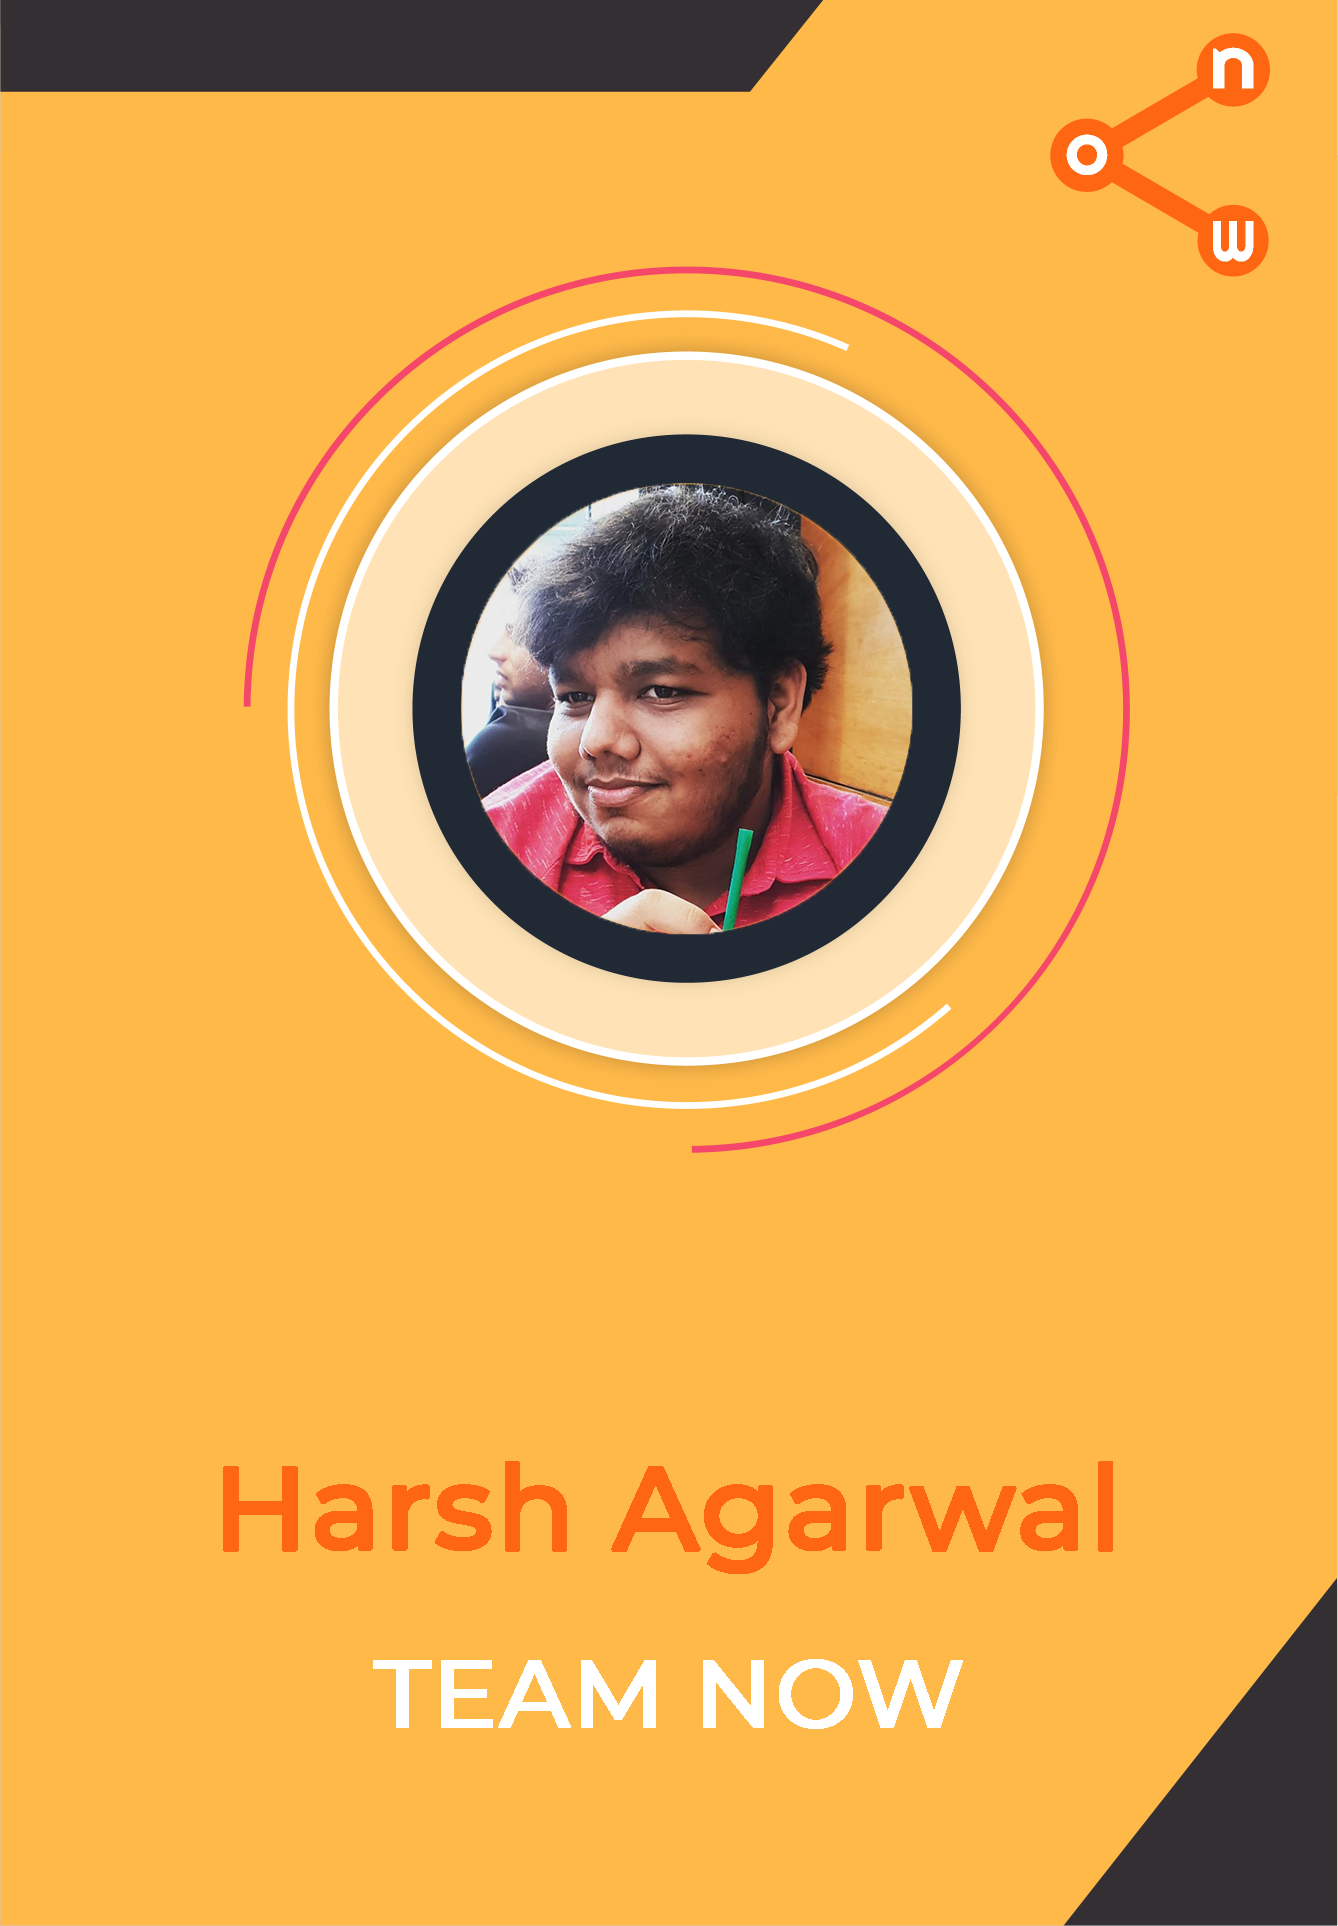
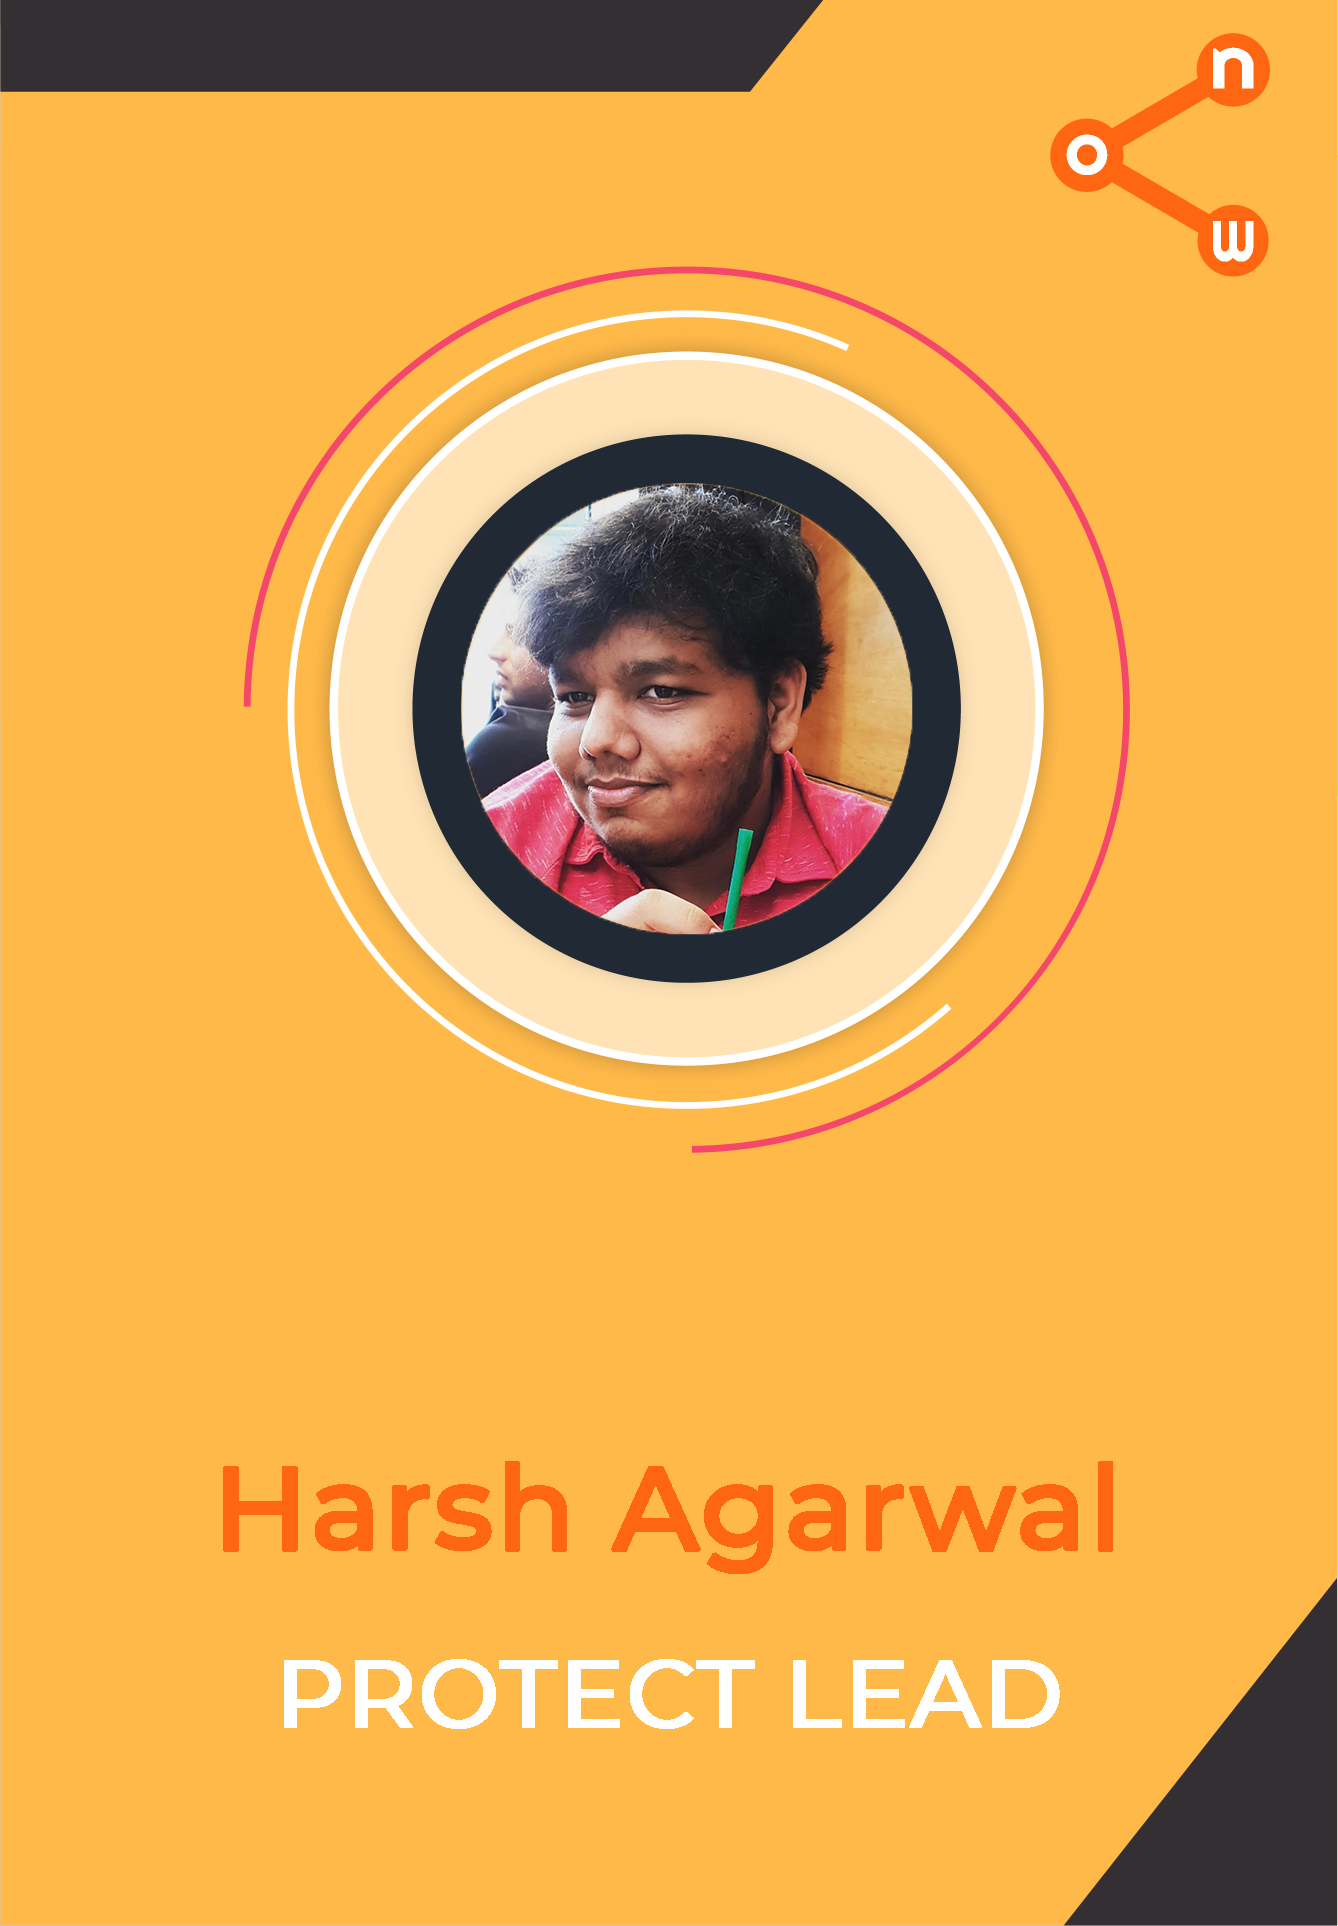
Updated core

Changed region(s): [[0.2145, 0.8411, 0.7967, 0.9034]]

diff --git a/team.html b/team.html
@@ -61,7 +61,7 @@
 
     <center>
         <div class="mdl-grid">
-            <div class="mdl-cell mdl-cell--3-col">
+            <!-- <div class="mdl-cell mdl-cell--3-col">
                 <div id="team_card" class="card">
                     <img id="photo" src="./img/team/Rohit Choudhari.png" alt="Rohit Choudhari" />
                     <div id="github_profile">
@@ -104,6 +104,42 @@
                         <a href="https://github.com/orgs/nowmozillaclub/people" target="_blank"><i class="fab fa-github"></i></a>
                     </div>
                 </div>
+            </div> -->
+
+            <div class="mdl-cell mdl-cell--3-col">
+                <div id="team_card" class="card">
+                    <img id="photo" src="./img/team/Sheona Das.png" alt="N.O.W. Club Captain" />
+                    <div id="github_profile">
+                        <a href="https://github.com/Sheona-D" target="_blank"><i class="fab fa-github"></i></a>
+                    </div>
+                </div>
+            </div>
+
+            <div class="mdl-cell mdl-cell--3-col">
+                <div id="team_card" class="card">
+                    <img id="photo" src="./img/team/Yogya Tewari.png" alt="N.O.W. Teach Lead" />
+                    <div id="github_profile">
+                        <a href="https://github.com/yogyatewari001" target="_blank"><i class="fab fa-github"></i></a>
+                    </div>
+                </div>
+            </div>
+
+            <div class="mdl-cell mdl-cell--3-col">
+                <div id="team_card" class="card">
+                    <img id="photo" src="./img/team/Urmil Shroff.png" alt="N.O.W. Build Lead" />
+                    <div id="github_profile">
+                        <a href="https://github.com/urmilshroff/" target="_blank"><i class="fab fa-github"></i></a>
+                    </div>
+                </div>
+            </div>
+
+            <div class="mdl-cell mdl-cell--3-col">
+                <div id="team_card" class="card">
+                    <img id="photo" src="./img/team/Harsh Agarwal.png" alt="N.O.W. Protect Lead" />
+                    <div id="github_profile">
+                        <a href="https://github.com/Harsh30199" target="_blank"><i class="fab fa-github"></i></a>
+                    </div>
+                </div>
             </div>
 
             <div class="mdl-cell mdl-cell--3-col">
@@ -122,15 +158,6 @@
                     <img id="photo" src="./img/team/Jaitra Dixit.png" alt="N.O.W. member" />
                     <div id="github_profile">
                         <a href="https://github.com/jaitradixit" target="_blank"><i class="fab fa-github"></i></a>
-                    </div>
-                </div>
-            </div>
-
-            <div class="mdl-cell mdl-cell--3-col">
-                <div id="team_card" class="card">
-                    <img id="photo" src="./img/team/Urmil Shroff.png" alt="N.O.W. member" />
-                    <div id="github_profile">
-                        <a href="https://github.com/urmilshroff/" target="_blank"><i class="fab fa-github"></i></a>
                     </div>
                 </div>
             </div>
@@ -283,36 +310,9 @@
 
             <div class="mdl-cell mdl-cell--3-col">
                 <div id="team_card" class="card">
-                    <img id="photo" src="./img/team/Sheona Das.png" alt="N.O.W. member" />
-                    <div id="github_profile">
-                        <a href="https://github.com/Sheona-D" target="_blank"><i class="fab fa-github"></i></a>
-                    </div>
-                </div>
-            </div>
-
-            <div class="mdl-cell mdl-cell--3-col">
-                <div id="team_card" class="card">
                     <img id="photo" src="./img/team/Varun Chhangani.png" alt="N.O.W. member" />
                     <div id="github_profile">
                         <a href="https://github.com/chhanganivarun" target="_blank"><i class="fab fa-github"></i></a>
-                    </div>
-                </div>
-            </div>
-
-            <div class="mdl-cell mdl-cell--3-col">
-                <div id="team_card" class="card">
-                    <img id="photo" src="./img/team/Yogya Tewari.png" alt="N.O.W. member" />
-                    <div id="github_profile">
-                        <a href="https://github.com/yogyatewari001" target="_blank"><i class="fab fa-github"></i></a>
-                    </div>
-                </div>
-            </div>
-
-            <div class="mdl-cell mdl-cell--3-col">
-                <div id="team_card" class="card">
-                    <img id="photo" src="./img/team/Harsh Agarwal.png" alt="N.O.W. member" />
-                    <div id="github_profile">
-                        <a href="https://github.com/Harsh30199" target="_blank"><i class="fab fa-github"></i></a>
                     </div>
                 </div>
             </div>
